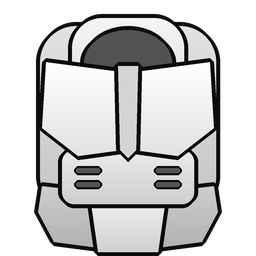
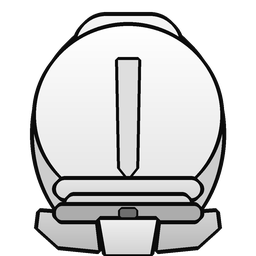
Bulwark v2: cuirass body (breastplate, belly plates, belt, hip plates); pauldrons higher, wider, more tilt
Claude-Session: https://claude.ai/code/session_01GM4XsNt8FF8EEgy8oUJDKj

Changed region(s): [[0.0938, 0.0312, 0.9062, 1.0]]

diff --git a/Source/Art/v2/bulwark.py b/Source/Art/v2/bulwark.py
@@ -2,22 +2,27 @@ import sys; sys.path.insert(0,sys.argv[1]); SP=sys.argv[1]
 from rw_style import *
 def sym(left):            # left half points (x<128) -> full symmetric outline
     return left+[(256-x,y) for x,y in reversed(left)]
-# ---------------- BODY
+# ---------------- BODY: a rounded cuirass (breastplate, belly plates, belt, hanging hip plates)
 B=Layer()
-B.plate(B.rrect(40,26,216,212,36),226,196)                                    # torso block
-B.plate(B.rrect(72,18,184,92,30),245,225)                                     # collar rim
-B.plate(B.ell(84,30,172,96),82,stroke=4)                                      # neck opening
-B.plate(B.poly([(42,186),(94,192),(100,248),(54,242),(38,212)]),205,178,mirror=True)   # side hip plates
-B.plate(B.poly([(90,196),(166,196),(158,252),(98,252)]),242,208)              # centre hip plate
-B.plate(B.rrect(62,150,194,204,12),236,206)                                   # lower chest plate, the part seen below the helmet
-for y in (168,182): B.mark(B.rrect(76,y,100,y+5,2),mirror=True)               # two vent slots each side
-B.plate(B.poly([(46,62),(122,72),(122,150),(78,156),(42,128)]),255,226,mirror=True)   # chest slabs
-B.plate(B.poly([(118,66),(138,66),(136,150),(128,158),(120,150)]),212)        # centre ridge (ends under the helmet)
+cut=lambda m,y: m&(np.arange(N)[:,None]<y*K)
+cuir=cut(B.ell(34,18,222,250),214)
+B.plate(cuir,236,206)                                                          # cuirass (sides show as the flanks)
+B.plate(cuir&~B.ell(50,18,206,250),204,stroke=0)                               # rounded flank side faces
+B.plate(B.rrect(76,16,180,92,30),245,225)                                      # collar rim
+B.plate(B.ell(84,30,172,96),82,stroke=4)                                       # neck opening (under the helmet)
+B.plate(cut(B.ell(36,26,220,204),184),255,230)                                 # breastplate, full chest width, curved lower edge
+B.plate(B.poly([(118,60),(138,60),(136,168),(128,178),(120,168)]),222,stroke=3)  # breastplate keel
+B.plate(B.rrect(56,180,200,198,10),230,214)                                    # belly plate 1
+B.plate(B.rrect(66,196,190,212,9),220,204)                                     # belly plate 2
+B.plate(B.poly([(40,212),(94,216),(98,250),(58,246),(38,228)]),212,184,mirror=True)   # hip plates (tassets)
+B.plate(B.rrect(56,206,200,220,6),172)                                         # belt
+B.plate(B.poly([(100,220),(156,220),(150,254),(106,254)]),240,210)             # centre hip plate
+B.mark(B.rrect(120,209,136,217,2),110)                                         # belt buckle
 # ---------------- SHOULDERS: one stylised pauldron per side, no arm plates below
 S=Layer()
-SX,SY=0.82,-16                     # pauldron placement: narrower toward the helmet, raised
+SX,SY=0.76,-12                     # pauldron placement: narrower toward the helmet, raised
 _poly,_ell=S.poly,S.ell
-TILT=np.radians(14); PX,PY=96,110        # tilt: outer edge rises, pivoting near the inner corner
+TILT=np.radians(19); PX,PY=96,110        # tilt: outer edge rises, pivoting near the inner corner
 def _tf(x,y):
     x,y=x-PX,y-PY; x,y=x*np.cos(TILT)-y*np.sin(TILT),x*np.sin(TILT)+y*np.cos(TILT); x,y=x+PX,y+PY
     return 2+(x-2)*SX, y+SY
